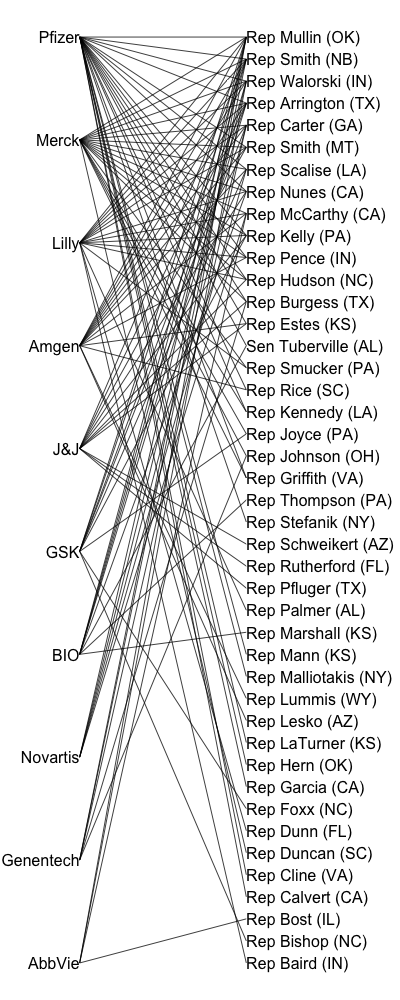
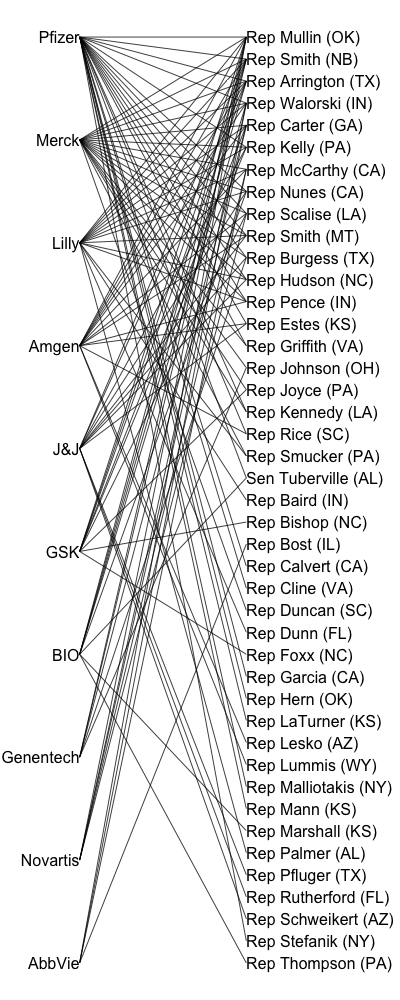
Tweak

diff --git a/_posts/2022-01-21-biopharma-insurrection-donors.md b/_posts/2022-01-21-biopharma-insurrection-donors.md
@@ -105,8 +105,8 @@ A few points become blunt-trauma-obvious:
 - The main biopharma offenders are Pfizer, Merck, Lilly, Amgen, and J&amp;J.  The others
   are there, but at least the donated to fewer insurrectionists.  
 - The biggest offending insurrectionist politicians in terms of the number of funding
-  sources accepted were Mullin, Smith, Walorski, Arrington, Carter, Smith, Scalise, Nunes,
-  McCarthy.  
+  sources accepted were Mullin, Smith, Arrington, Walorski, Carter, Kelly, McCarthy,
+  Nunes, Scalise, Smith.  
   
 Both conclusions are in accord with what we saw above in the tables, we just see it
 graphically here.  
